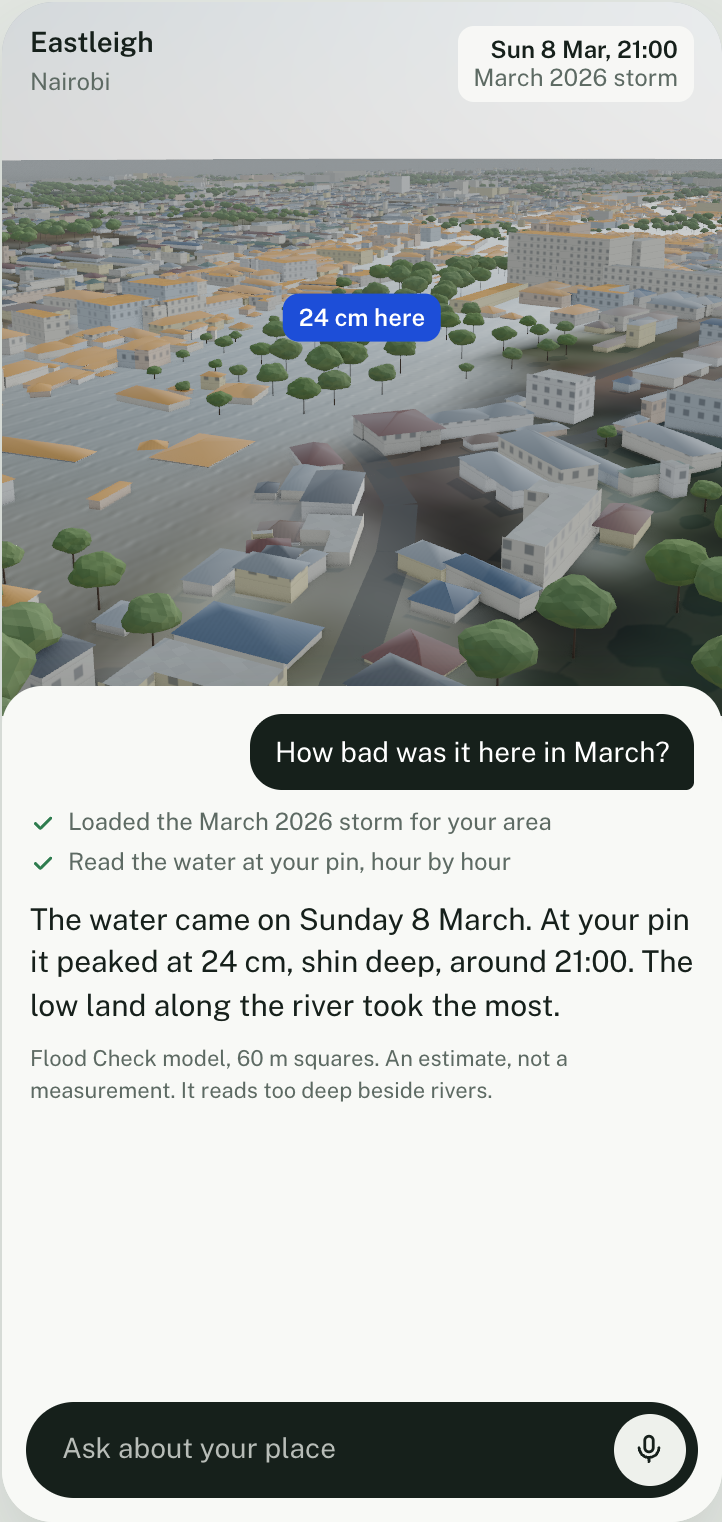
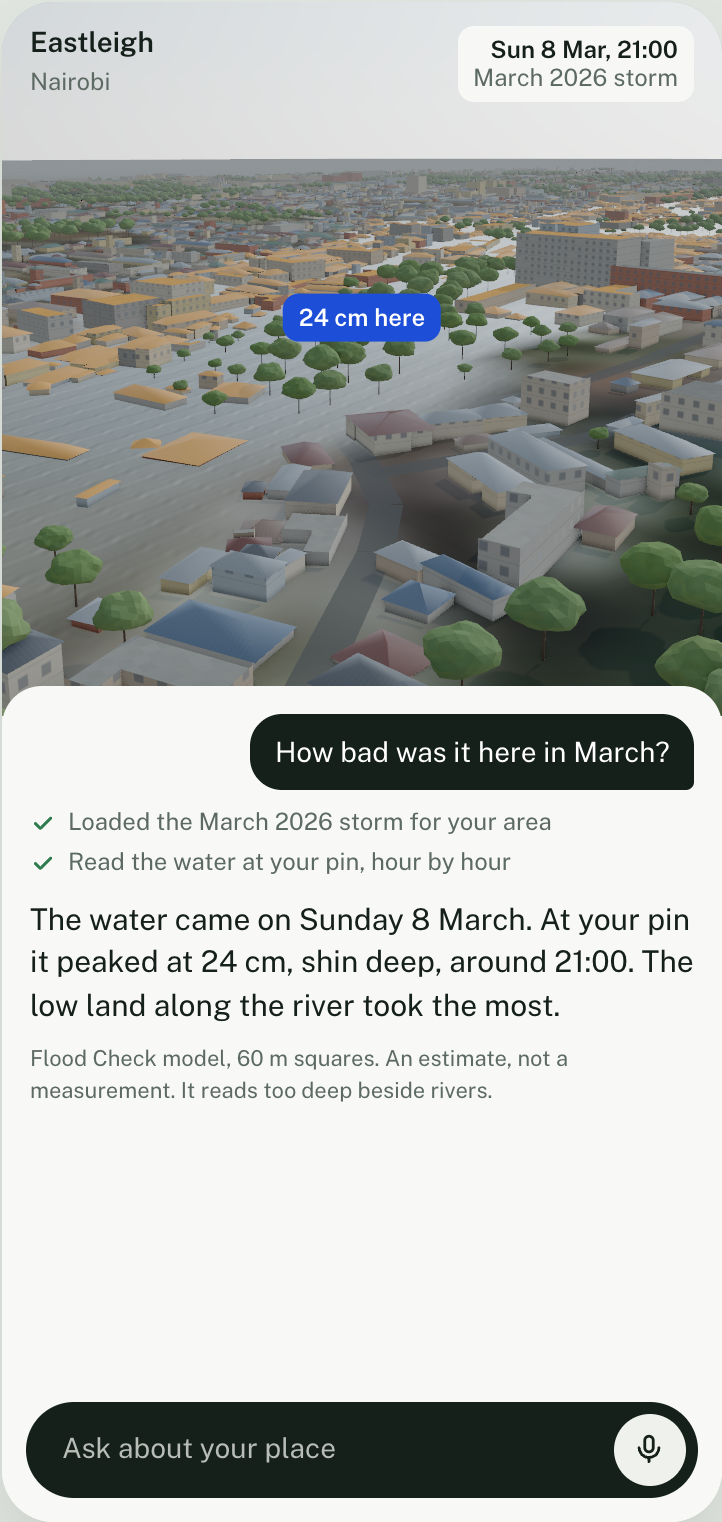
Darken building walls and roofs to real Eastleigh tones

Changed region(s): [[0.0, 0.0926, 1.0, 0.4632]]

diff --git a/design/place3d.js b/design/place3d.js
@@ -27,9 +27,9 @@ function sunDir(dayOfYear, hour) {
 
 // Eastleigh colours: plaster and paint on walls, mabati (iron sheet) roofs bare, rusted or
 // painted, concrete on flat roofs. No orange: amber marks water at the door.
-const WALLS = ['#e9e1cf', '#efece6', '#e6cdb4', '#e8dba8', '#c9d2d6', '#d9d3c7', '#efe7d6'];
+const WALLS = ['#a9a59c', '#b9ad98', '#c4b493', '#9da6aa', '#b2a088', '#8f8a82', '#c2b9a6', '#a3664f', '#bfae7c'];
 const ROOFS_PITCHED = ['#9a9d9f', '#8b8f91', '#7d6455', '#6f3c33', '#4f6b5b', '#4d6178', '#56585c'];
-const ROOFS_FLAT = ['#a7a49c', '#b8b4ab', '#9d9a92', '#c4c0b6'];
+const ROOFS_FLAT = ['#8e8b84', '#9c978d', '#7f7c76', '#a8a297'];
 
 export async function placeScene({ stage, canvas, base, view = 'street', weather = 'clear', hour = 16.3, day = 300, progress }) {
   const say = progress ?? (() => {});
@@ -99,7 +99,7 @@ export async function placeScene({ stage, canvas, base, view = 'street', weather
   composer.addPass(new RenderPass(scene, camera));
   const ao = new GTAOPass(scene, camera, 1, 1);
   ao.updateGtaoMaterial({ radius: 6, distanceExponent: 1.5, thickness: 4, scale: 1.4, samples: 16, distanceFallOff: 1 });
-  ao.blendIntensity = 0.85;
+  ao.blendIntensity = 1.0;
   composer.addPass(ao);
   composer.addPass(new OutputPass());
   const size = () => {
@@ -273,7 +273,7 @@ function buildBuildings(list, gy) {
   geo.setAttribute('aKind', new THREE.Float32BufferAttribute(kind, 1));
   geo.setIndex(idx); geo.computeVertexNormals();
   const orig = Float32Array.from(col);
-  const mat = new THREE.MeshStandardMaterial({ vertexColors: true, roughness: 0.82, metalness: 0, envMapIntensity: 0.9 });
+  const mat = new THREE.MeshStandardMaterial({ vertexColors: true, roughness: 0.88, metalness: 0, envMapIntensity: 0.45 });
   mat.onBeforeCompile = (sh) => {
     sh.vertexShader = sh.vertexShader
       .replace('#include <common>', '#include <common>\nattribute float aRel, aU, aKind; varying float vRel, vU, vKind; varying vec3 vWpos;')
@@ -288,7 +288,7 @@ function buildBuildings(list, gy) {
           // walls: a darker foot (splash and dirt), storey lines, then windows
           float fl = vRel / 3.2, fw1 = fwidth(fl);
           float slab = (1.0 - smoothstep(0.0, 0.05 + fw1, fract(fl))) * step(1.0, fl) * (1.0 - smoothstep(0.15, 0.4, fw1));
-          diffuseColor.rgb *= (1.0 - 0.14 * slab) * mix(0.72, 1.0, smoothstep(0.2, 1.4, vRel));
+          diffuseColor.rgb *= (1.0 - 0.18 * slab) * mix(0.62, 1.0, smoothstep(0.2, 2.0, vRel));
           vec2 wc = vec2(vU / 3.6, vRel / 3.2), fw = fwidth(wc);
           float detail = 1.0 - smoothstep(0.12, 0.3, max(fw.x, fw.y));
           vec2 cell = fract(wc);
